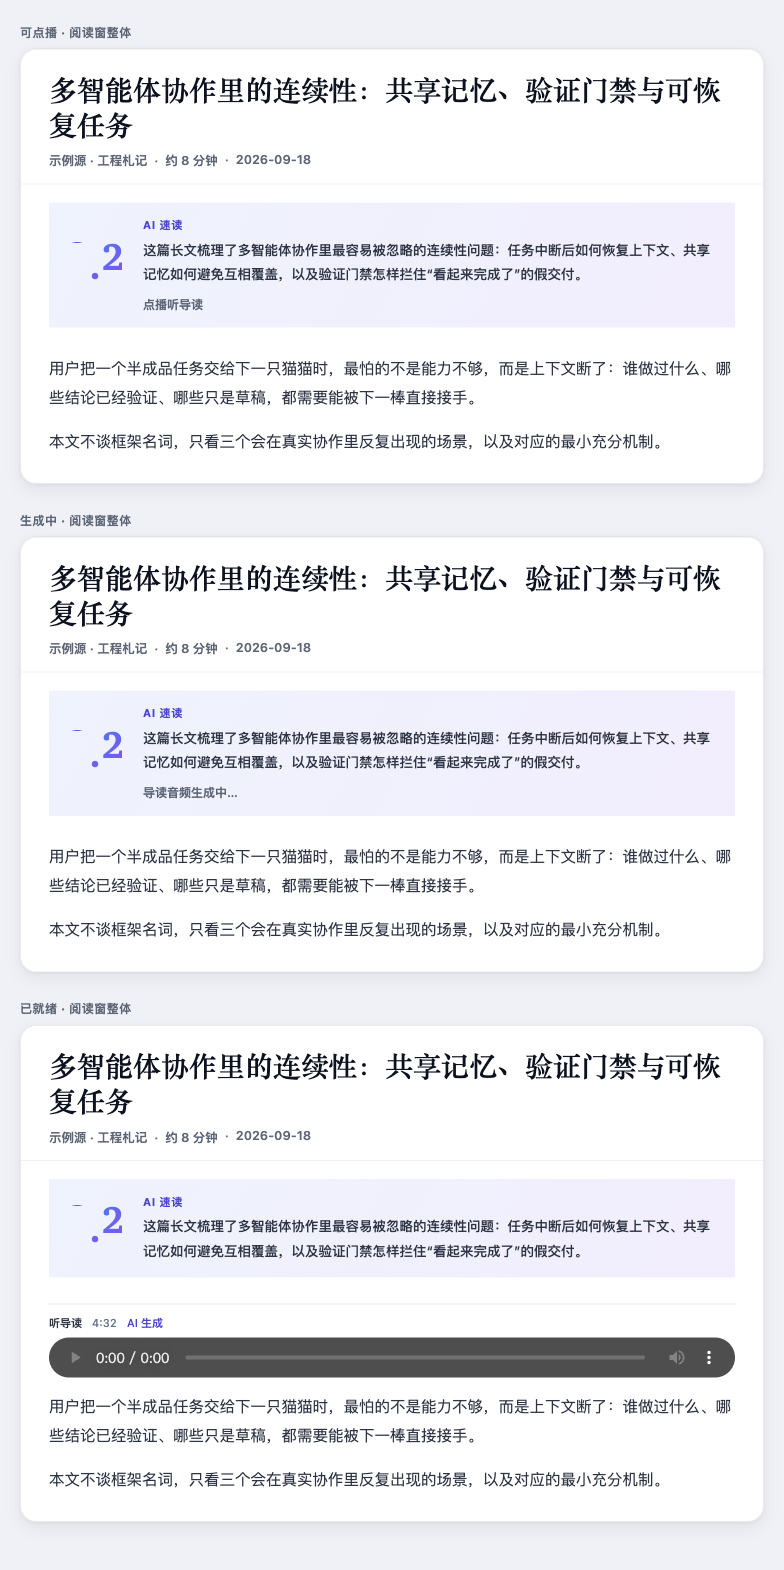
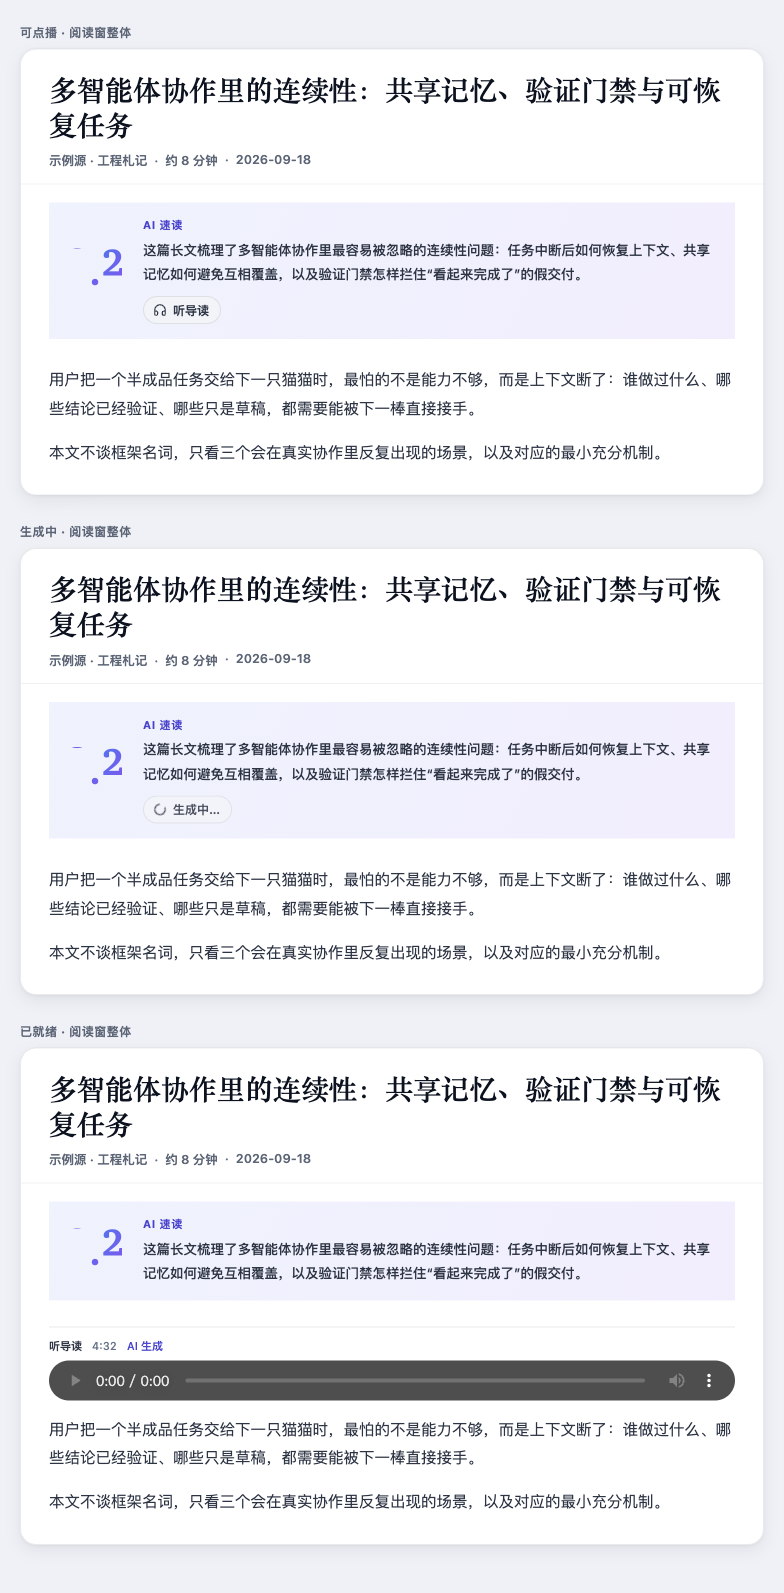
fix(reader): 文章点播改成速读卡内小胶囊
可点播/生成中用耳机图标 + 文案的 pill，不再用纯文字链；
整窗三态截图同步更新到 PR 资产。

diff --git a/frontend/src/components/AiReadingCard.jsx b/frontend/src/components/AiReadingCard.jsx
@@ -1,4 +1,5 @@
 import { useEffect, useState } from 'react';
+import { Headphones, Loader2 } from 'lucide-react';
 import {
   podcastAnalysisBasis,
   podcastAssessmentMeta,
@@ -29,7 +30,7 @@ const LISTEN_POLL_MS = 4000;
  * 层(一句理由 + 免责小字)。点数字在两层间慢速淡切,卡高由较高者撑住不跳;
  * 再点/Esc/换篇回摘要。无分数时右栏承接骨架与生成入口。桌面与移动壳共用。
  *
- * 文章点播(issue #124):非播客时，可点播/生成中/失败重试作为卡内轻量文字动作；
+ * 文章点播(issue #124):非播客时，可点播/生成中/失败重试用卡内小胶囊（耳机图标 + 文案）；
  * 音频就绪后的播放条由 ArticleListenBar 承接，不挤进本卡。
  */
 export default function AiReadingCard({
@@ -163,8 +164,9 @@ export default function AiReadingCard({
         {showListenAction && (
           <div className="reader-ai-listen-action">
             {listenActive || listenBusy ? (
-              <span className="reader-ai-listen-status" role="status">
-                {listenBusy ? '提交中…' : '导读音频生成中…'}
+              <span className="reader-ai-listen-pill is-busy" role="status" aria-live="polite">
+                <Loader2 className="reader-ai-listen-icon animate-spin" aria-hidden="true" />
+                {listenBusy ? '提交中…' : '生成中…'}
               </span>
             ) : listenFailed ? (
               <>
@@ -173,20 +175,22 @@ export default function AiReadingCard({
                 </span>
                 <button
                   type="button"
-                  className="reader-ai-summary-generate"
+                  className="reader-ai-listen-pill"
                   onClick={handleListenOndemand}
                   disabled={listenBusy}
                 >
+                  <Headphones className="reader-ai-listen-icon" aria-hidden="true" />
                   重新点播
                 </button>
               </>
             ) : (
               <button
                 type="button"
-                className="reader-ai-summary-generate"
+                className="reader-ai-listen-pill"
                 onClick={handleListenOndemand}
               >
-                点播听导读
+                <Headphones className="reader-ai-listen-icon" aria-hidden="true" />
+                听导读
               </button>
             )}
           </div>

diff --git a/frontend/src/index.css b/frontend/src/index.css
@@ -8119,13 +8119,44 @@ input[type="radio"] {
   .reader-ai-summary-generate:hover:not(:disabled) { color: var(--dorami-blue); }
   .reader-ai-summary-generate:disabled { cursor: default; opacity: 0.7; }
 
-  /* 文章点播：可点播/生成中收在速读卡内；就绪播放条对齐播客 audio-track。 */
+  /* 文章点播：可点播/生成中收在速读卡内（小胶囊，像控件不像纯文字）；
+     就绪播放条对齐播客 audio-track。 */
   .reader-ai-listen-action {
     display: flex;
     flex-wrap: wrap;
-    align-items: baseline;
-    gap: 8px 12px;
+    align-items: center;
+    gap: 8px 10px;
     margin-top: 10px;
+  }
+  .reader-ai-listen-pill {
+    display: inline-flex;
+    align-items: center;
+    gap: 6px;
+    min-height: 28px;
+    padding: 0 11px 0 9px;
+    border-radius: var(--r-pill);
+    border: 1px solid var(--dorami-border);
+    background: var(--dorami-well);
+    color: var(--dorami-ink-2);
+    font-size: 12px;
+    font-weight: 650;
+    line-height: 1;
+    cursor: pointer;
+  }
+  .reader-ai-listen-pill:hover:not(:disabled):not(.is-busy) {
+    border-color: var(--dorami-border-strong);
+    color: var(--dorami-ink);
+    background: var(--dorami-surface);
+  }
+  .reader-ai-listen-pill:disabled,
+  .reader-ai-listen-pill.is-busy {
+    cursor: default;
+    opacity: 0.85;
+  }
+  .reader-ai-listen-icon {
+    width: 14px;
+    height: 14px;
+    flex: none;
   }
   .reader-ai-listen-status {
     color: var(--dorami-muted);
